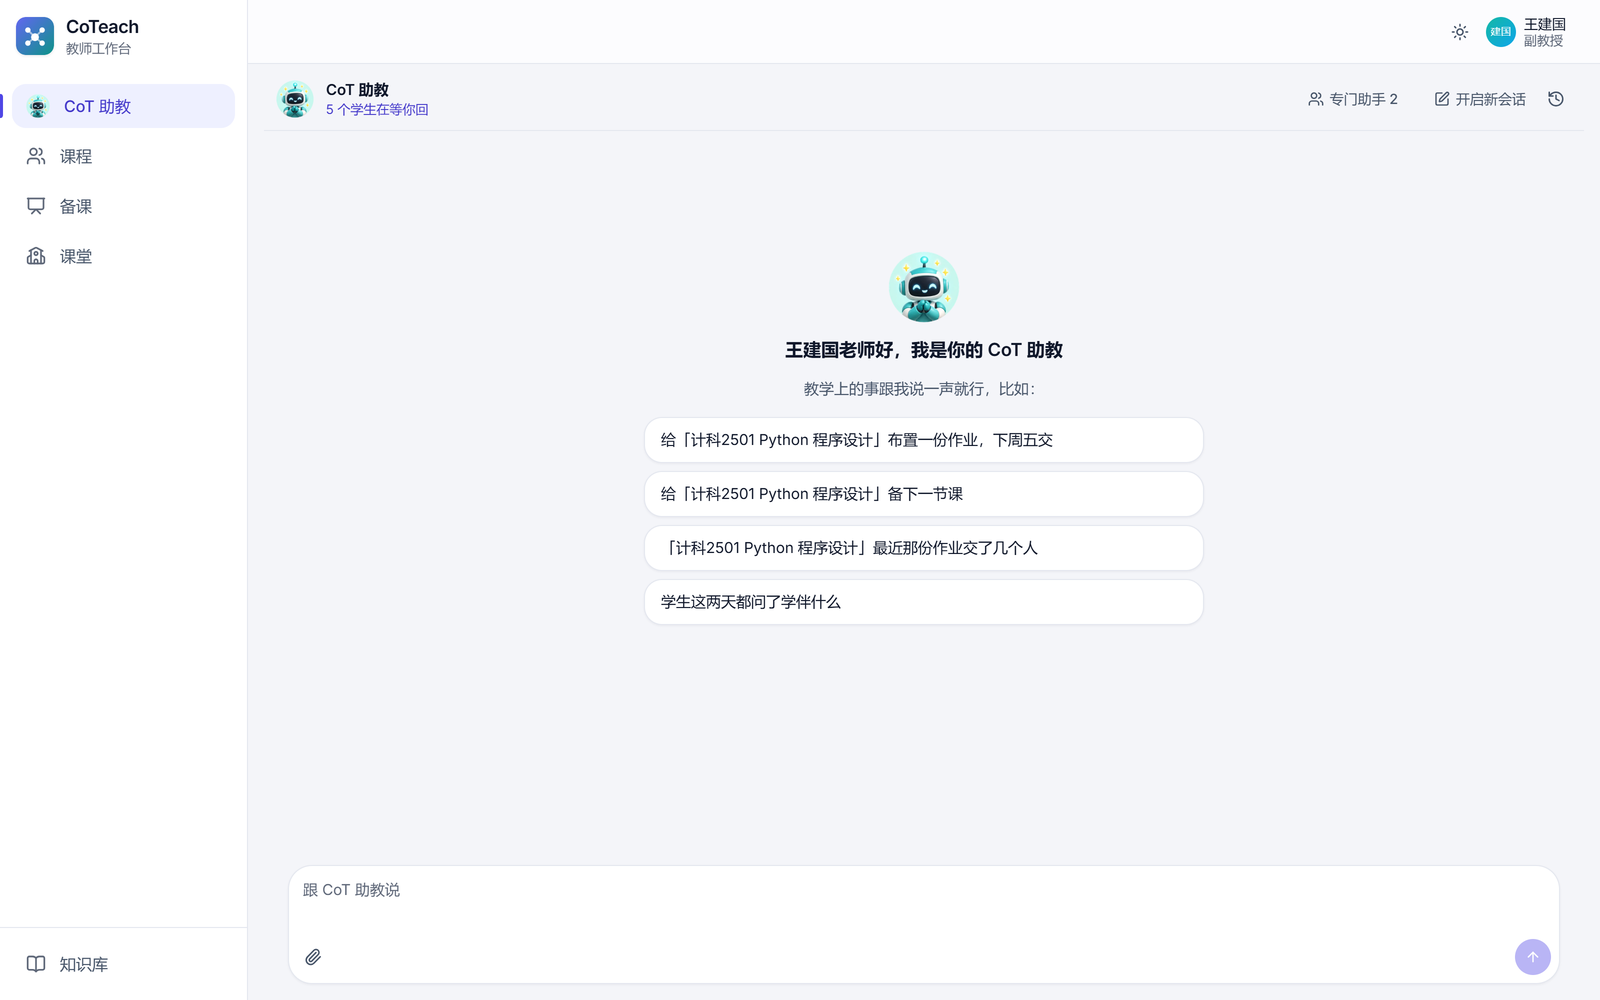
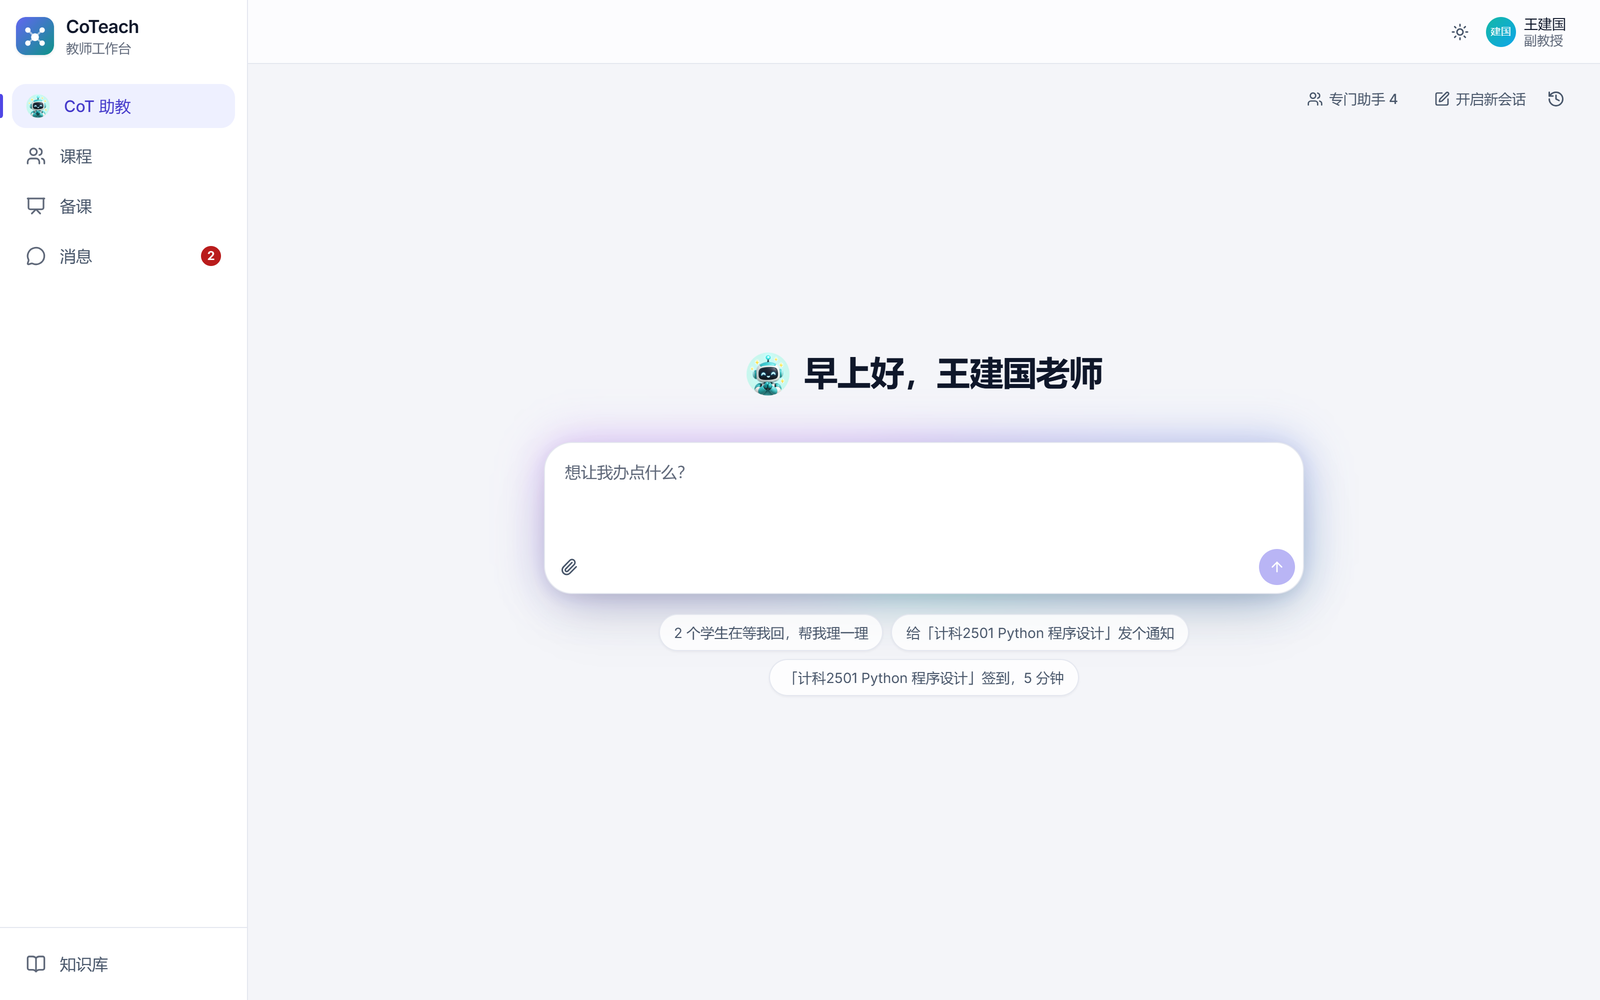
文档：作品介绍、技术文档、README 写上消息（收件箱、课程群、私聊、通知、签到、选人）、首页、备课带文件、助教和学伴先用 DeepSeek；新截图（首页、课程群、签到二维码、备课框带文件）；测试 265 条；重出 PDF。首页建议「给「X」发起签到，5 分钟」

diff --git a/web/src/pages/kb/KeeperPanel.tsx b/web/src/pages/kb/KeeperPanel.tsx
@@ -750,7 +750,7 @@ export const KeeperPanel = forwardRef<
   const cls = active?.title || classes[0]?.name;
   const starters = [
     students > 0 && `${students} 个学生在等我回，帮我理一理`,
-    ...(cls ? [`给「${cls}」发个通知`, `「${cls}」签到，5 分钟`, `给「${cls}」备下一节课`, `「${cls}」最近那份作业交了几个人`] : ['帮我建一门课，叫计科2501 Python 程序设计']),
+    ...(cls ? [`给「${cls}」发个通知`, `给「${cls}」发起签到，5 分钟`, `给「${cls}」备下一节课`, `「${cls}」最近那份作业交了几个人`] : ['帮我建一门课，叫计科2501 Python 程序设计']),
   ]
     .filter((x): x is string => !!x)
     .slice(0, 3);

diff --git a/docs/技术文档.md b/docs/技术文档.md
@@ -22,17 +22,19 @@ CoTeach 想做到的是：老师上课把该讲的讲完，资料或安排有变
 
 **老师那边**
 
-- **CoT 助教**：说一句话就办事。比如「给计科2501 布置第四章作业，下周五交」「张浩然那题改成 25 分」「第三章交了几个人」。办完的事能撤回；拿不准用选项卡片问老师。
+- **CoT 助教**：说一句话就办事。比如「给计科2501 布置第四章作业，下周五交」「张浩然那题改成 25 分」「第三章交了几个人」。办完的事能撤回；拿不准用选项卡片问老师。打开就是首页：一行问候、一个大输入框，发出去就接着聊。签到、选人、发通知这类事办完，回话下面直接摆着那张卡（签到二维码、点到的名字、谁读了通知），数字跟着变。
 - **知识库**：老师交的 PDF、PPT、Word、图片、压缩包，助教读出来、整理成笔记，原件只读留着。打开就看得到每份笔记写了什么、从哪份原件来，最近整理了什么一件一句话。改动像 Word 修订一样显示，说「改回去」就撤回。
 - **课程**：加课码和二维码，学生自己加入。课程页分四栏：作业、学情、成绩、成员。
+- **消息**：收件箱（助教的自动提醒、学生来问要老师拍板的卡片都进这里，处理完划掉，不再刷助教的主对话）、每门课一个群、私聊。发通知看得到谁读了谁没读，一键提醒，能撤回；签到出二维码和链接，人数实时变，没签的点名字补签；随机选人一轮里不重复。
 - **批改和讲评**：助教照评分标准一项一项给分，在学生原文上划出问题；老师改了一份的某一项，同样问题的其他份可以一起改；讲评能下载 Word、发给学生。
 - **学情**：学生卡在哪几个知识点，丢分多的在前，下节课怎么讲。只说卡在哪，不给学生贴标签。
 - **专门助手**：同一类活反复出现时，助教提议分出一个专门助手，老师点「分出来」；以后这类活交给它，它的会话一直留着，老师改过它批的分它会记住。
-- **备课**：说一句备哪门课、讲什么、几分钟，助教分几手做出学情、教案、课件、课堂练习、课后作业。课件每页是一张幻灯片，能放映，能导出 PPT 和 PDF；能直接改，也能跟助教说着改，改错了能撤回；课后作业点一下发到班里，带着评分标准。备的时候边做边显示，教案一段段写出来，课件一页页冒出来。
+- **备课**：说一句备哪门课、讲什么、几分钟，也可以把教材、讲义、去年的课件拖进备课框，助教先读、照着备，文件同时交进知识库；助教分几手做出学情、教案、课件、课堂练习、课后作业。课件每页是一张幻灯片，能放映，能导出 PPT 和 PDF；能直接改，也能跟助教说着改，改错了能撤回；课后作业点一下发到班里，带着评分标准。备的时候边做边显示，教案一段段写出来，课件一页页冒出来。
 
 **学生那边**
 
 - **CoT 学伴**：照课程资料包答疑，自己的作业、截止、分数现查。拿不准的问老师的助教；要老师定的事（晚交、改分、请假）在老师那边弹卡片，老师回了转告学生。
+- **消息**：课程群、私聊老师；收件箱里是通知和签到，点开算读，签到点一下或扫码。
 - **错题本和练一练**：各门课丢了分的题；点「练一练」，学伴照这道题出一道类似的新题，学生做完帮着判。
 
 **登录**
@@ -48,6 +50,10 @@ CoTeach 想做到的是：老师上课把该讲的讲完，资料或安排有变
 知识库：拖资料的地方，最近整理了什么一件一句话，每份笔记写了什么、从哪份原件来。
 
 ![知识库](img/知识库.png)
+
+消息：每门课一个群，签到卡（二维码、签了几个、谁没签）和选人卡；助教办的和老师点的是同一件事。
+
+![消息](img/消息.png)
 
 课程：每份作业一张卡片，一人一个小方块（批好、不及格、在批、拿不准、没交），一句话点名。
 
@@ -90,6 +96,7 @@ CoTeach 想做到的是：老师上课把该讲的讲完，资料或安排有变
    ├─ prep/       备课：几手分头做教案、课件、题目，做成幻灯片、精修、核对、说着改
    ├─ classroom/  原来的课堂（11-18 界面拿掉了，接口和数据还留着）
    ├─ classes/    课程（代码里沿用 classes）、加课码、作业、成绩
+   ├─ messages/   消息：收件箱、课程群、私聊、通知（已读、提醒、撤回）、签到、选人
    ├─ kb/         知识库（每位老师一个 Git 仓库）、交资料、整理助手
    └─ llm/        接模型：OpenAI / Anthropic / Gemini 写法，Gemini 接口
 数据：SQLite（node:sqlite）＋ 每个知识库一个 Git 仓库（改动、撤回、历史）
@@ -137,10 +144,11 @@ CoTeach 想做到的是：老师上课把该讲的讲完，资料或安排有变
 
 交分的格式就是评分标准本身：评分标准有几项，交分就有几格，格子名就是项名。这是从一个真实的 bug 改出来的，见 4.4。
 
-### 3.5 接模型：默认 Gemini，失败换 DeepSeek
+### 3.5 接模型：主模型、备用模型，按场景排先后
 
 - **模型层**（`server/src/llm/`）：统一的消息格式、工具调用和流式输出，下面接 OpenAI、Anthropic、Gemini 三种写法，加一个服务器本机的 Gemini 接口。
 - **主模型和备用模型**：每次调用有一个主模型、一个备用模型。主模型报错、或者超过一段时间没动静，就换备用模型从头来。等多久按场景定：跟人对话的等 1 分钟，批改这类后台活等 5 分钟。
+- **当面等回话的先用 DeepSeek**：CoT 助教、学伴是老师、学生当面等着的，先用 DeepSeek，Gemini 当备用；备课、批改、整理这些后台的活先用 Gemini（`CT_FAST_AGENTS`，默认 ta,stu）。线上一天的记录里，助教用 Gemini 平均 108 秒一句（Gemini 接口一个号、同时两个请求，排队等首字），用 DeepSeek 3.4 秒；消息尺子 24 句 DeepSeek 办对 22、Gemini 21。
 - **Gemini 接口不收工具**：服务器上的 Gemini 接口（Gemini 4 Hydrogen）是 OpenAI 写法，但不接受 tools 参数。我们在接法里把工具写进要求里，用 json_schema 要模型每一步交「要说的话（say）」和「要用的工具（calls）」，再拆成标准的工具调用。前面几步用过的工具写成同样的 JSON，工具的结果当成下一条消息。上层的助教代码不用改。
 - **整理助手**：原来每一轮起一个 Claude Code 命令行，只能接 Anthropic 写法。现在改成服务里自己的循环，工具和规矩不变，换模型也不受影响。
 
@@ -171,7 +179,7 @@ CoTeach 想做到的是：老师上课把该讲的讲完，资料或安排有变
 
 这个项目的代码由 AI（Claude Code）写，人定需求、看结果、拍板上线。约束靠这几样：
 
-- **测试**：248 条，覆盖权限、课程和作业的流程、批改的打分规则、讲评、备课和课件的改动与撤回、知识库的改动和撤回、交资料、故障恢复、迁移。测试里模型的回答是写好的（`setModelStep` / `setKeeperStep`），不调真模型，每次结果一样。
+- **测试**：265 条，覆盖权限、课程和作业的流程、批改的打分规则、讲评、备课和课件的改动与撤回、知识库的改动和撤回、交资料、故障恢复、迁移。测试里模型的回答是写好的（`setModelStep` / `setKeeperStep`），不调真模型，每次结果一样。
 - **类型检查**：前后端都开 TypeScript 严格检查。
 - **尺子**：凡是改发给模型的话，先用尺子量（第四节），量完对比，没对比数据不上线。
 - **上线前演练**：上线脚本先把线上数据备份一份，在副本上用新版本迁移、启动、检查，通过了才换；每次都留一条回退命令。
@@ -252,7 +260,7 @@ AI 照这几条规矩接：
 
 ### 5.2 不调模型的部分：每次结果一样
 
-`pnpm test` 有 248 条测试，测试里模型的回答是写好的，不连网，每次结果一样。覆盖：
+`pnpm test` 有 265 条测试，测试里模型的回答是写好的，不连网，每次结果一样。覆盖：
 - 权限：学生看不到什么、老师只能动自己的班；
 - 流程：建课程、加入、布置、交、批、退回、成绩册；
 - 打分规则：每项卡在满分以内、总分程序加、批注定位、交错题的拒收；
@@ -272,6 +280,7 @@ AI 照这几条规矩接：
 | `grade-map` | 演示班 70 份答卷，用线上那两份评分标准 | 交错题的份数 |
 | `suggest-measure` | 老师最近的几组记录（该提议的、不该提议的） | 该提的提了几句、不该提的提了几句 |
 | `prep-measure` | 几节课各真备一遍 | 每手用时、做没做成、教案环节和分钟、课件页数和版式、字多的页、题型、作业总分、选择题有没有答案 |
+| `msg-measure` | 老师跟助教说的 24 句消息类的话（发通知、谁没读、提醒、签到、补签、选人、群里说一句、私聊；带语音口气、识别错字、接上文） | 办对几句、每句等多久、有没有多改数据 |
 | `slide-measure` | 一份课件，照页面的画法每页放进 1280×720 | 放不下要缩多少、代码折不折行、字太小的页，拼一张总览图给人看 |
 
 每把尺子在一份复制出来的数据里跑，不碰开发数据；跑前看余额，跑完记下调了几次模型、读写了多少。

diff --git a/docs/作品介绍.md b/docs/作品介绍.md
@@ -16,14 +16,16 @@
 
 | 谁用 | 功能 | 做什么 |
 |---|---|---|
-| 老师 | CoT 助教 | 说一句话就办事：建课程、布置作业、改分、通知学生、问作业情况；办完能撤回；拿不准用选项卡片问老师 |
+| 老师 | CoT 助教 | 打开就是一个大输入框，说一句话就办事：建课程、布置作业、改分、发通知、发起签到、随机选人、问作业情况；办成的东西直接摆在对话里（签到二维码、点到的名字、通知谁读了），数字跟着变；办完能撤回；拿不准用选项卡片问老师 |
 | 老师 | 知识库 | 老师交的 PDF、PPT、Word、图片、压缩包，助教读出来、整理成笔记，原件只读留着。打开就看得到每份笔记写了什么，最近整理了什么一件一句话；改动像 Word 修订一样显示，能撤回 |
 | 老师 | 课程 | 加课码和二维码，学生自己加入；课程页分作业、学情、成绩、成员四栏 |
+| 老师 | 消息 | 收件箱：助教的提醒、学生来问要老师拍板的卡片都在这里，处理完划掉，助教的主对话不被刷屏。每门课一个群，能私聊学生。发通知看得到谁读了谁没读，一键提醒，发错了能撤回；签到出二维码和链接，投到大屏上学生扫码就签；随机选人一轮里不重复 |
 | 老师 | 批改和讲评 | 助教照评分标准逐项给分、在原文上划批注；改一份能把同样问题的几份一起改；讲评能下载 Word、发给学生 |
 | 老师 | 学情 | 学生卡在哪几个知识点，丢分多的在前，几个人丢分、几个人问过学伴，下节课怎么讲 |
 | 老师 | 专门助手 | 同一类活反复出现时，助教会提议分出一个专门助手，老师点「分出来」就有了；它的会话一直留着、下次接着用；作业可以交给它批，老师改过的分它会记住 |
-| 老师 | 备课 | 说一句备哪门课、讲什么、几分钟，助教分几手做出学情、教案、课件、课堂练习、课后作业。课件每页是一张幻灯片，能放映，能导出 PPT 和 PDF；能直接改，也能跟助教说着改，改错了能撤回；课后作业点一下发到班里。备的时候边做边显示：教案一段段写出来，课件一页页冒出来，顶上一句话说现在做到哪了 |
+| 老师 | 备课 | 说一句备哪门课、讲什么、几分钟，也可以把教材、讲义、去年的课件直接拖进来，助教照着备，文件同时存进知识库。助教分几手做出学情、教案、课件、课堂练习、课后作业。课件每页是一张幻灯片，能放映，能导出 PPT 和 PDF；能直接改，也能跟助教说着改，改错了能撤回；课后作业点一下发到班里。备的时候边做边显示：教案一段段写出来，课件一页页冒出来，顶上一句话说现在做到哪了 |
 | 学生 | CoT 学伴 | 答疑、查作业和分数、要资料；要老师定的事转给老师 |
+| 学生 | 消息 | 课程群、私聊老师；收件箱里是通知和签到，点开就算读了，签到点一下或扫码 |
 | 学生 | 错题本和练一练 | 各门课丢了分的题；点「练一练」，学伴照这道题出一道新题，做完帮着判 |
 
 ### 3. 怎么用
@@ -38,7 +40,8 @@
 1. 老师跟 CoT 助教说「给这门课布置一份作业：用 for 循环求 1 到 100 的和，满分 10 分，明天交」。
 2. 学生交作业，助教几十秒内批完，学生看到分数和批注。
 3. 学生在 CoT 学伴里问「我第1题为什么扣分」「能晚交两天吗」。晚交这种事会弹到老师那边，老师点一个选项就回复了。
-4. 老师在课程的「学情」里看学生卡在哪；到「备课」说一句备哪节课，助教做出教案、课件和练习。
+4. 老师在课程的「学情」里看学生卡在哪；到「备课」说一句备哪节课，把讲义拖进去，助教照着做出教案、课件和练习。
+5. 上课前跟助教说「发起签到，5 分钟」，对话里出一张签到二维码，放大投到屏幕上，学生扫码签到，人数实时涨；「随便点一个人」，名字直接出来。
 
 **本地运行**（README 里有完整的 10 分钟复现指南）：装好 Node.js 24、pnpm、Git，`pnpm install`，在 `server/.env` 填一个 DeepSeek 的 key，`pnpm dev:server` 和 `pnpm dev:web` 两个终端，浏览器打开 http://localhost:5190 。放一个 `seed-demo.json` 能自动建一个有 36 个学生、4 份作业的演示班。
 
@@ -73,7 +76,7 @@
 
    每次改提示词或换模型都跑，改前改后对比。比如换成 Gemini 4 Hydrogen 后，学伴 34 句对 33 句，跟原来的 DeepSeek 一样；批改 70 份由 Hydrogen 批，出错时自动换 DeepSeek 顶上。加专门助手前后也各量了一遍：原来的 53 句没有改坏，新的 8 句全对。课件加了「精修」这一步以后，内容页每页字数的中位数从 231 降到 105，程序量出来太满的页从 14 页里 12 页降到 13 页里 2 页。
 
-2. **不调模型的部分用自动测试**。248 条测试覆盖权限、课程和作业流程、打分规则、备课和课件的改动与撤回、知识库改动和撤回、故障恢复、数据迁移。模型的回答在测试里是写好的，每次结果一样，改代码后跑一遍就知道有没有改坏。
+2. **不调模型的部分用自动测试**。265 条测试覆盖权限、课程和作业流程、打分规则、备课和课件的改动与撤回、知识库改动和撤回、故障恢复、数据迁移。模型的回答在测试里是写好的，每次结果一样，改代码后跑一遍就知道有没有改坏。
 
 3. **测试数据由 AI 按学生水平生成**。演示班 36 个学生的答卷，是先给每个学生定一个水平（分四档），再安排几个没交的、两个抄袭的、一个交错作业的，让模型照着写出来的。这些答卷用来测批改：好的分数要高、同样的错要扣一样的分、抄的要被比出来。
 
@@ -100,7 +103,7 @@
 
 ## 五、项目图片
 
-老师的 CoT 助教：空着的时候打个招呼，给几句能直接说的话（用老师自己的班名）：
+老师打开就是 CoT 助教的首页：一句问候、一个大输入框，下面几句照老师自己的课现编的话，点一下就填进去；发出去就接着聊：
 
 ![助教](img/助教.png)
 
@@ -111,6 +114,14 @@
 知识库：拖资料的地方，最近整理了什么一件一句话，每份笔记写了什么：
 
 ![知识库](img/知识库.png)
+
+消息：每门课一个群。跟助教说「发起签到」「随便点一个人」，或者自己点下面的按钮，群里出签到卡（二维码、签了几个、谁没签）和选人卡：
+
+![消息](img/消息.png)
+
+签到二维码点一下全屏，投到教室的屏幕上，学生用手机扫码就签上，人数跟着涨：
+
+![签到](img/签到.png)
 
 课程：每份作业一张卡片，一人一个小方块，一句话说谁没交、哪份要老师看：
 
@@ -123,6 +134,10 @@
 课程里的学情：
 
 ![学情](img/学情.png)
+
+备课框里可以直接拖进讲义、课件，助教先读，照着备：
+
+![备课带文件](img/备课带文件.png)
 
 备课：边做边显示，顶上钉着一句助教说的话，课件做好一页换一页：
 

diff --git a/README.md b/README.md
@@ -14,14 +14,16 @@
   - 学情：学生卡在哪几个知识点，丢分多的在前，下节课怎么讲；
   - 成绩：成绩册，导出 Excel；
   - 成员。
+- **消息**：收件箱（助教的提醒、学生来问的卡片）、课程群、私聊；通知看得到谁读了、能提醒、能撤回；签到出二维码；随机选人。都能跟助教说一句就办。
 - **批改和讲评**：助教照评分标准一项一项给分，在学生原文上划出问题。老师改了一份的某一项，同样问题的其他份可以一起改。讲评能下载 Word，也能发给学生。
-- **备课**：挑一个班点「备下节课」，助教照老师知识库里的教案、课件和这个班的学情写下一节课的教案，能下载 Word。
+- **备课**：挑一门课点「备下节课」（可以把讲义、教材拖进来，助教照着备），助教照老师知识库里的教案、课件和这个班的学情写下一节课的教案，能下载 Word。
 
 **学生**
 
 - **CoT 学伴**：照课程资料包答疑，自己的作业、截止、分数现查。拿不准的去问老师的助教；要老师定的事（晚交、改分、请假），在老师那边弹一张卡片，老师回了再转告学生。
 - **课程**：作业、成绩、成员。
-- **错题本**：各个班丢了分的题。点「练一练」，学伴照这道题出一道类似的新题，学生做完帮着判。
+- **消息**：课程群、私聊老师；收件箱里是通知和签到。
+- **错题本**：各门课丢了分的题。点「练一练」，学伴照这道题出一道类似的新题，学生做完帮着判。
 
 ## 几个智能体怎么分工
 
@@ -91,6 +93,7 @@ pnpm test
 | `CT_DATA_DIR` | 可选：数据放哪，默认 `server/data` |
 | `CT_PORT` | 可选：后端端口，默认 18660 |
 | `CT_LOGIN_ONLY` | 可选：只让这几个账号登录（用户名，逗号分开），发了登录密钥的号也算，管理员总能进；设了就关掉注册 |
+| `CT_FAST_AGENTS` | 可选：哪些智能体先用备用模型（快的那个），默认 `ta,stu`（CoT 助教、学伴）；设成空就都先用主模型 |
 | `CT_PASSWORD_LOGIN` | 可选：设成 `off` 就只能用登录密钥进（管理员除外），登录页上「账号密码」显示暂未开放，注册也关掉。比赛期间线上这样用 |
 
 第一次启动会建超级管理员 `root`，密码写在 `server/data/root-password.txt`，在「管理」里能开关老师注册、看模型调用。
